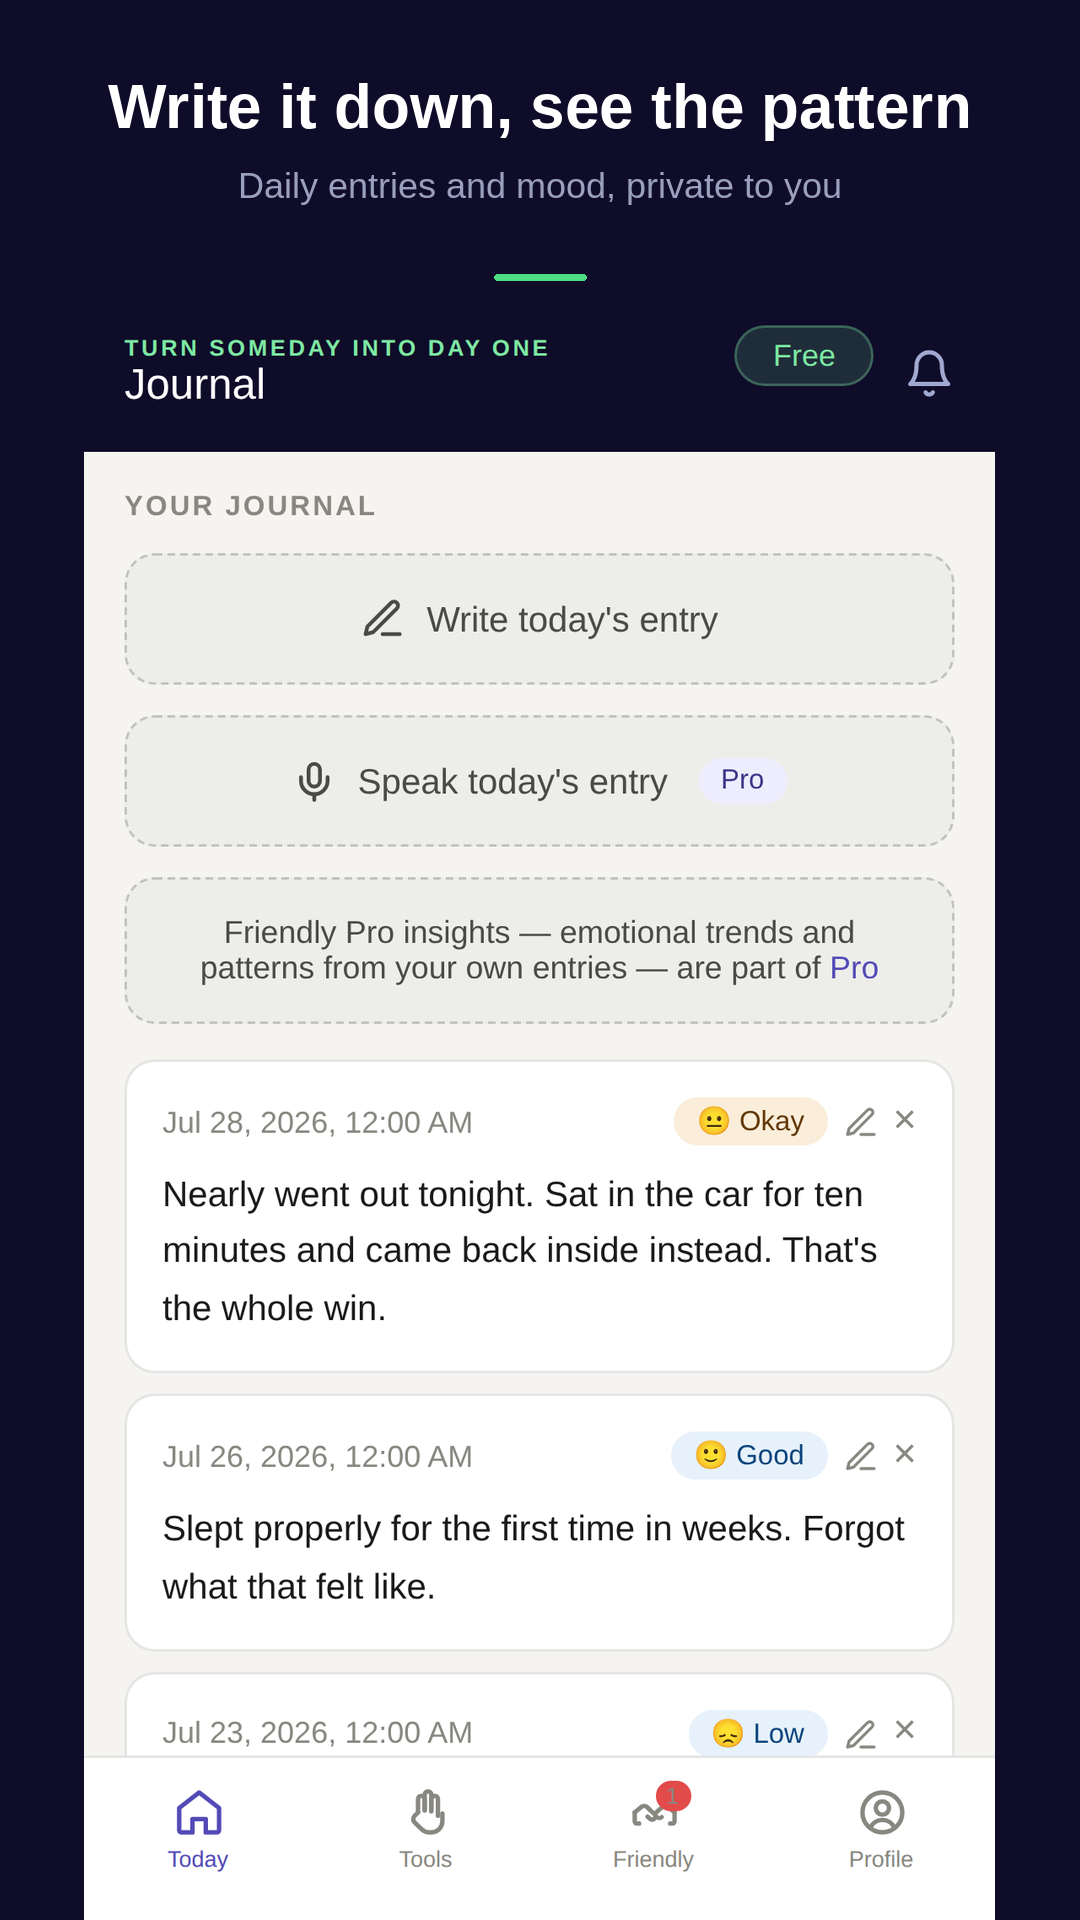
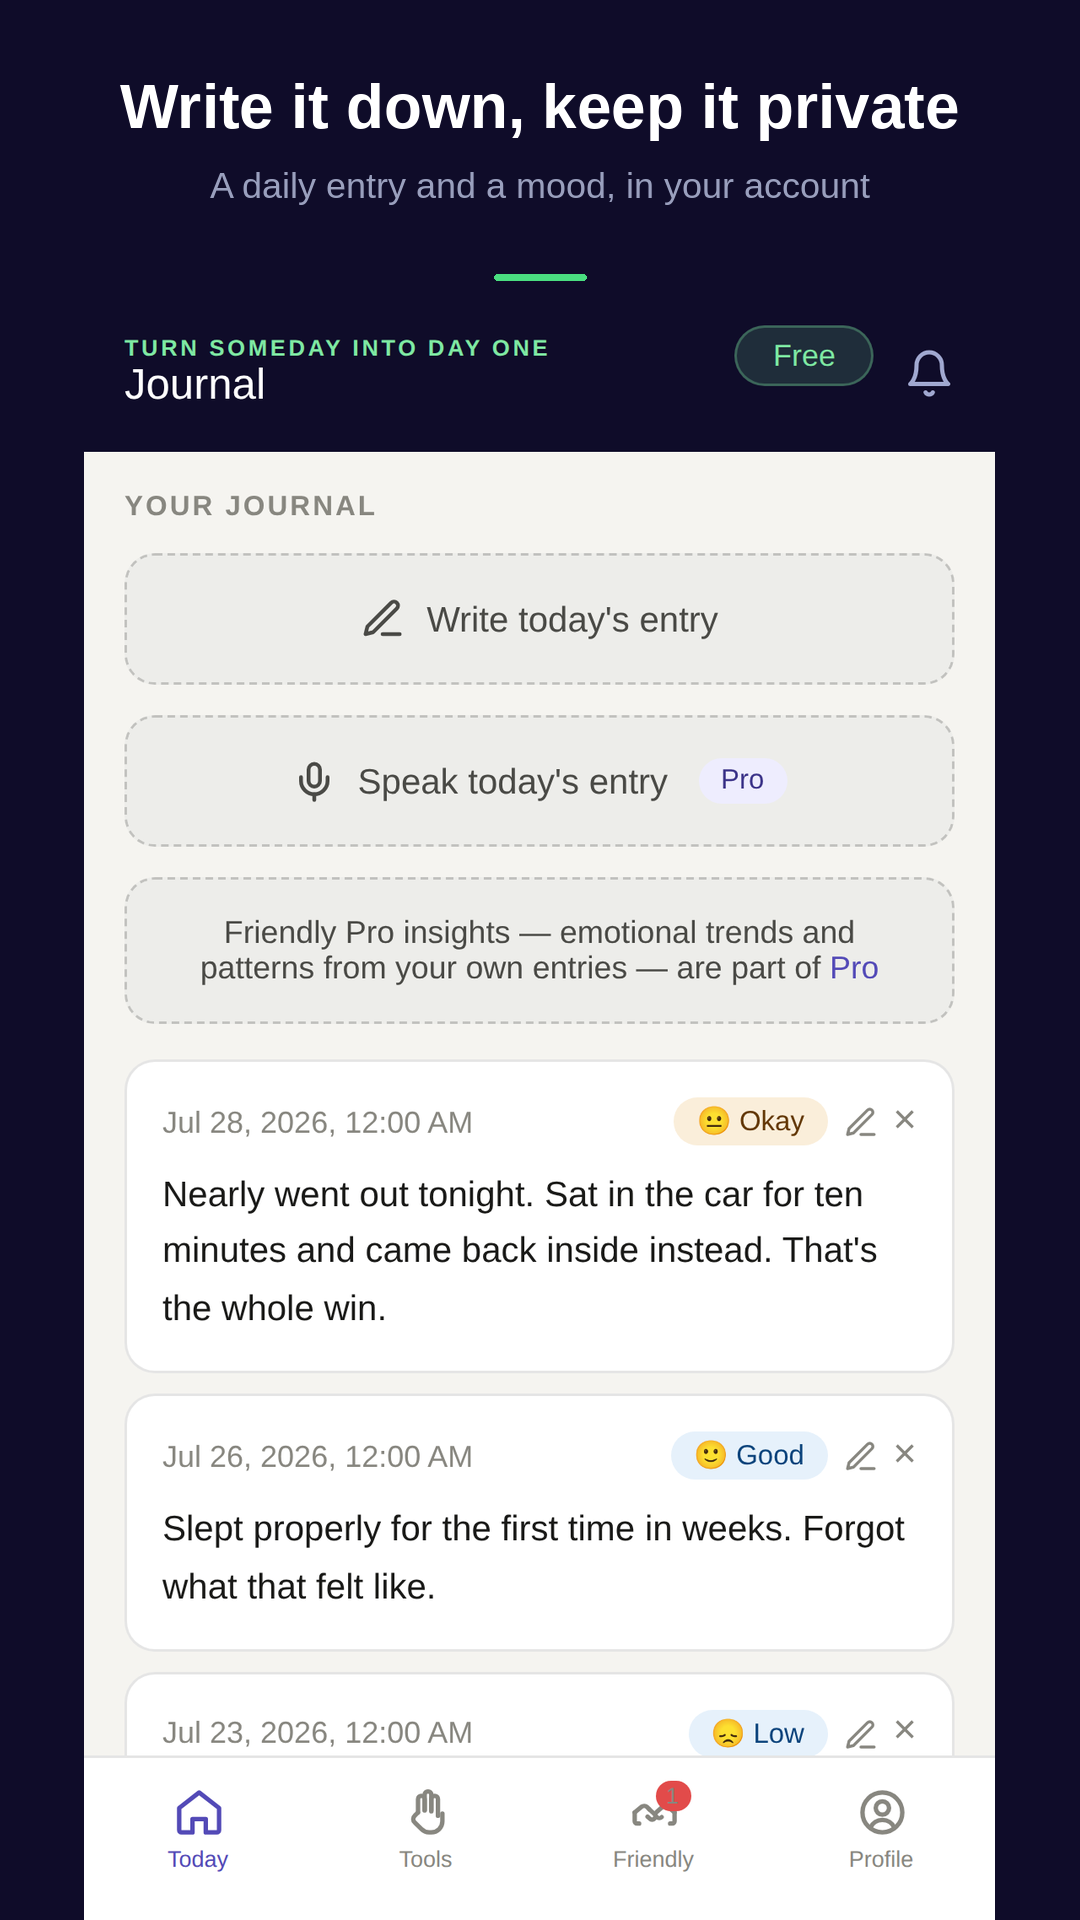
Screenshot captions: two that would have failed your own rules
"Someone to talk to at 3am" over the chat screen makes an AI read as a person,
and "see the pattern" over the journal promises a Pro insight on a screen where
the free version just shows your entries. The health-apps declaration bans
outcome claims in screenshots and Play scrutinises this category harder than
most. Both rewritten, and the rule written into 05-graphics.md so the next
caption doesn't repeat it.

Claude-Session: https://claude.ai/code/session_01Cyhvnyq3kLSzdvjJPczk5f

Changed region(s): [[0.0917, 0.0312, 0.9167, 0.125]]

diff --git a/TurnSomeDayIntoOneday/store-listing/make-captioned-screenshots.py b/TurnSomeDayIntoOneday/store-listing/make-captioned-screenshots.py
@@ -37,9 +37,9 @@ REG = "/usr/share/fonts/truetype/liberation/LiberationSans-Regular.ttf"
 PANELS = [
     ("01-home.png",     "Every sober day, counted",       "Days, hours and money back — on one screen"),
     ("06-sos.png",      "One tap when the craving hits",  "Breathe, talk it through, or reach 988 — instantly"),
-    ("05-chat.png",     "Someone to talk to at 3am",      "Friendly listens. No judgment, any hour."),
+    ("05-chat.png",     "An AI companion at 3am",         "Friendly listens. No judgment, any hour."),
     ("02-lessons.png",  "A new lesson every day",         "Read it, or listen hands-free"),
-    ("03-journal.png",  "Write it down, see the pattern", "Daily entries and mood, private to you"),
+    ("03-journal.png",  "Write it down, keep it private", "A daily entry and a mood, in your account"),
     ("04-progress.png", "Progress that never resets",     "A setback doesn't erase what you've already done"),
 ]
 

diff --git a/TurnSomeDayIntoOneday/store-listing/05-graphics.md b/TurnSomeDayIntoOneday/store-listing/05-graphics.md
@@ -16,9 +16,9 @@ is that: the same real screens with a headline band above each one.
 |---|---|---|
 | 1 | `01-home.png` | Every sober day, counted |
 | 2 | `02-sos.png` | One tap when the craving hits |
-| 3 | `03-chat.png` | Someone to talk to at 3am |
+| 3 | `03-chat.png` | An AI companion at 3am |
 | 4 | `04-lessons.png` | A new lesson every day |
-| 5 | `05-journal.png` | Write it down, see the pattern |
+| 5 | `05-journal.png` | Write it down, keep it private |
 | 6 | `06-progress.png` | Progress that never resets |
 
 Order matters. Play shows the first two or three before anyone scrolls, so the
@@ -27,6 +27,11 @@ day counter leads and the craving button follows. The old upload led with the
 
 To change any caption, edit `PANELS` in `make-captioned-screenshots.py` and
 re-run it. The raw screenshots are never touched.
+
+Two rules the captions are written to: **no outcome claims** ("helps you quit",
+"reduces cravings") anywhere in a screenshot, and the companion is named as an
+AI rather than as a person. Both come from the health-apps declaration in
+`04-health-declaration.md`, and both are things listings get rejected over.
 
 ## The screenshots
 
